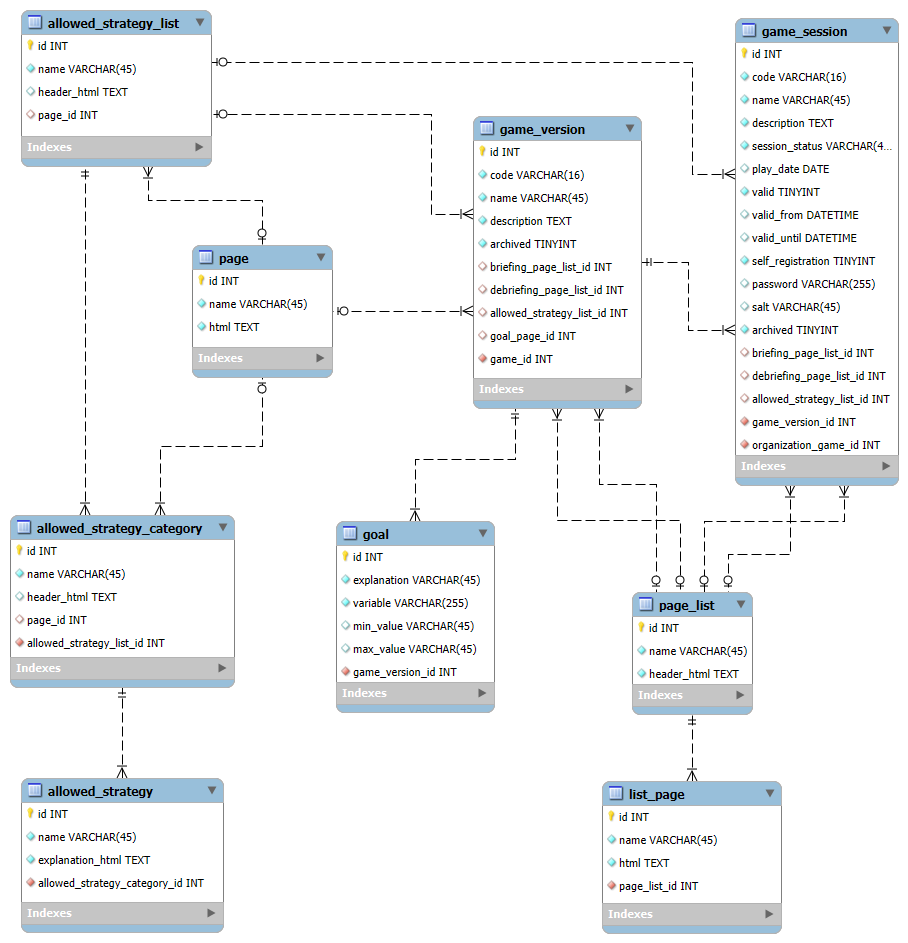
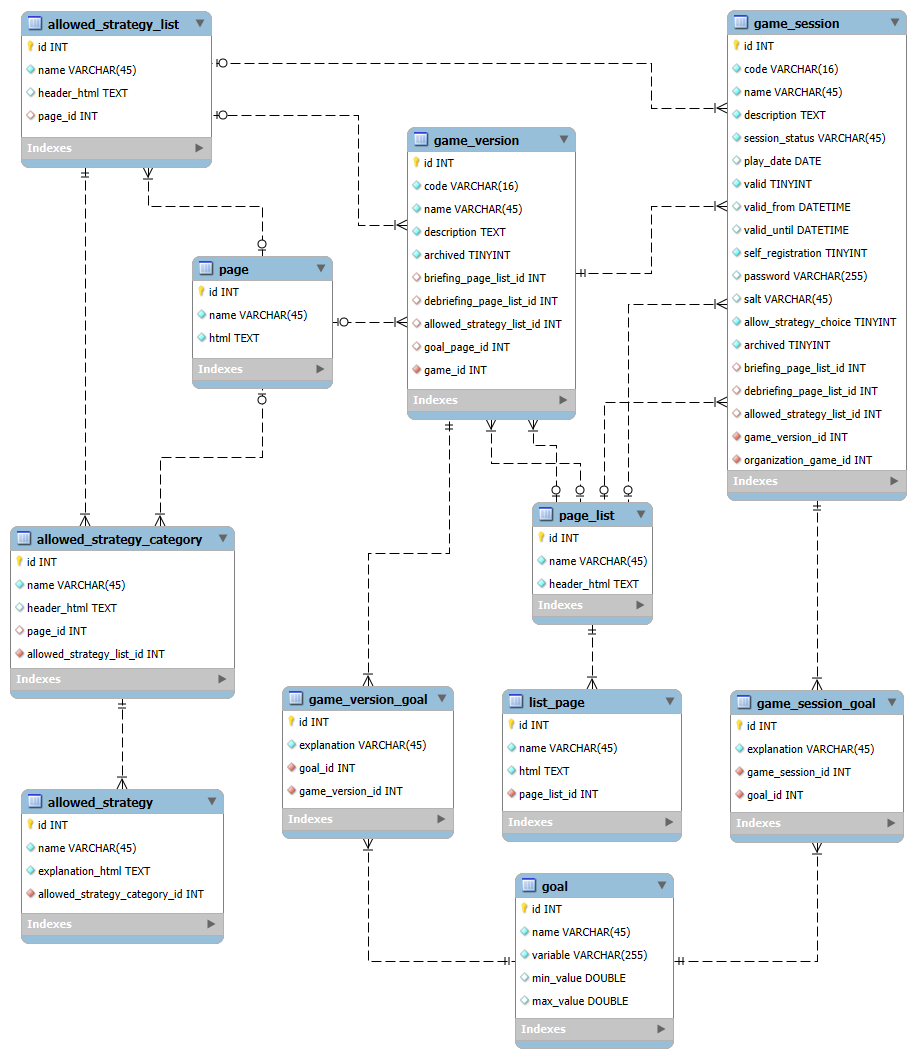
Issue #20. Store game play data

diff --git a/doc/4-architecture/database-design.md b/doc/4-architecture/database-design.md
@@ -27,6 +27,7 @@ __Changelog:__
  - 2025-08-30 - Allow limits to be set on a trigger [Issue #33](https://github.com/averbraeck/gscg-design/issues/33).
  - 2025-08-30 - Specify goals for a game version [Issue #22](https://github.com/averbraeck/gscg-design/issues/22).
  - 2025-08-30 - Specify allowed strategies for a game version and session [Issue #23](https://github.com/averbraeck/gscg-design/issues/23).
+ - 2025-08-30 - Store game play data [Issue #20](https://github.com/averbraeck/gscg-design/issues/20).
  
 
 ## 4.1.1. High-level database design
@@ -63,7 +64,9 @@ The design of the GSCG Admin data tables looks as follows:
 ![](diagrams/gscg-database-admin.png)
 
 The goals and strategies have been defined in a separate diagram to keep the overview.
-- `goal` is a variable with a minimum and/or maximum value that the player should try to reach in the game. Each goal contains a brief explanation for the player. `game_version` can have multiple instances of `goal`, e.g., profit and sustainability, each with their own thresholds that the player should try to reach.
+- `goal` is a variable with a minimum and/or maximum value that the player should try to reach in the game. Each goal contains a brief explanation for the player. `game_version` and `game_session` can have multiple instances of `goal`, e.g., profit and sustainability, each with their own thresholds that the player should try to reach. Goals from `game_session` override those of `game_version`.
+- `game_version_goal` links a goal to a game version.
+- `game_session_goal` links a goal to a game session.
 - `allowed_strategy_list` containing a number of strategy categories.
 - `allowed_strategy_category` containing a number of possible strategies to choose from.
 - `allowed_strategy` explaining one strategy an a few lines.
@@ -200,10 +203,24 @@ Several solutions exist for the storage of game state data:
 2. Saving the *entire state* of the game regularly, e.g., once per play day or week. The advantage of this approach is that it allows for a quick restore. The disadvantage is that tracing the progress of the game for analysis purposes is much harder, although that is actually the task of the Game Play data for analytics. Another disadvantage is that the latest player decisions are lost.
 3. *Combining* a regular state save with the transactions since the last state save. The advantage is that it is complete and can do a quick full restore. The disadvantage is that two mechanisms have to be implemented.
 
-The data tables for game state data will be defined after a choice has been made. This asks for a bit deeper analysis of the software setup.
+For now, transactions are stored, since they are needed anyhow for the game analytics platform and to show game state to the facilitator and players. In addition, regular state saves of the game for rapid retrieval can be done as well. 
 
-> [!NOTE]
-> A choice has to be made for the persistence layer of the GSCG platform.
+A first set of tables to store the most important information per player has been created. All tables have a `game_time` field, and a `wall_time` field, storing the game time in UTC and the wall clock time of the game play record.
+
+- `player_decision` stores input from players to the live game session. The `state` field can be a copy of the json data sent from the player's browser, to easily replicate and analyze it later.
+- `chosen_strategy` stores the strategy that the player has chosen, for each `strategy_category`. Note that the player could change the strategy at some time during the game, if allowed by the facilitator. Strategies an be chosen by players as long as the field `allow_strategy_choice` in `game_session` is true.
+- `sent_content` stores every content message that was sent between actors in the game into the database.
+- `chat_message` stores chats between players and between a facilitator and a player into the database.
+- `triggered_event` stores the timestamp and state of an event that was triggered automatically (`triggered_facilitator` is false) or by the facilitator (`triggered_facilitator` is true). The state information of the event, if applicable, can be stored as well.
+- `triggered_process` stores the timestamp and state of an autonomous process that was triggered automatically. The state information of the process execution, if applicable, can be stored as well.
+- `triggered_news_message` stores the timestamp of a news message that was released automatically (`triggered_facilitator` is false) or released by the facilitator (`triggered_facilitator` is true). 
+- `extra_event` stores the timestamp and state of a new event that was injected by the facilitator during game play.
+- `extra_news_message` stores the timestamp of a news message that was injected by the facilitator during game play.
+- `player_score` updates the changes in the variables that are defined in the `game_version_goal` or `game_session_goal`. To this end, the `player_score` table is linked to `goal`. 
+
+The game play tables are indicated by a yellow banner.
+
+![](diagrams/gscg-database-game-play.png)
 
 
 
@@ -475,15 +492,15 @@ The non-functional requirements have no effect on the database.
 - FO6.4 The game play platform should show the briefing (note that the game might take place in a distributed setting)
   <br>The field `briefing_page_list_id` in `game_version` and `game_session` (for an override) link to a `page_list` with multiple `page` records for the briefing.
 - FC6.5 The game play platform must show dynamic state information about the player's firm during game play
-  <br>The dynamic state information is not yet explicitly stored in the database, since the **Game Play** data has not yet been fixed. 
+  <br>The table `player_decision` and `player_score` contain information about the player's firm. 
 - FC6.6 The game play platform must show the news at the correct times during game play
   <br>Each `news_message` has a `trigger_fixed` record attached to it, defining when the news item should be displayed to the player.
 - FC6.7 The player must be able to enter decisions into the game play platform during game play
-  <br>The storage of player decisions is not yet included in the database design, since the **Game Play** data has not yet been fixed. 
+  <br>The table `player_decision` stores decision information in the database.
 - FC6.8 The game play platform must send player decisions to the gamedata platform
   <br>No consequences for database.
 - FC6.9 The game play platform must show the scores to the player during and after game play
-  <br>The storage of player scores is not yet included in the database design, since the **Game Play** data has not yet been fixed. 
+  <br>The table `player_score` stores the scores of the player, related to a `goal`. 
 - FO6.10 The game play platform should show the debriefing (note that the game might take place in a distributed setting)
   <br>The field `debriefing_page_list_id` in `game_version` and `game_session` (for an override) link to a `page_list` with multiple `page` records for the debriefing.
 - FC6.11 The player must be able to logout from the game session
@@ -493,16 +510,13 @@ The non-functional requirements have no effect on the database.
 - FO6.13 The game play platform should allow chatting with other players in the game session and with the facilitator
   <br>Chats should probably also stored in the database. This is not yet included. See NOTE.
 - FC6.14 The player must be able to define a strategy, dependent on the settings in the game
-  <br>The storage of a player strategy is not yet included in the database design, since the **Game Play** data has not yet been fixed. 
+  <br>The player's chosen strategy is defined in the table `chosen_strategy`, which links to an `allowed_strategy`.
 - FC6.15 The player must be able to motivate their chosen strategy
-  <br>The storage of a motivation for a player strategy is not yet included in the database design, since the **Game Play** data has not yet been fixed. 
+  <br>The table `chosen_strategy` contains a `motivation` field. 
 - FC6.16 The game play platform must send the strategy and the motivation of the player to the gamedata platform
   <br>No consequences for database.
 
 The non-functional requirements have no effect on the database.
-
-> [!NOTE]
-> **FC6.5**, **FC6.7**, **FC6.9**, **FC6.14**, **FC6.15**: Check these requirements again when Game Play data has been added to the database.
 
 > [!NOTE]
 > **FO6.13**: A table for storing chats between players and between facilitator and player should be added to the database.
